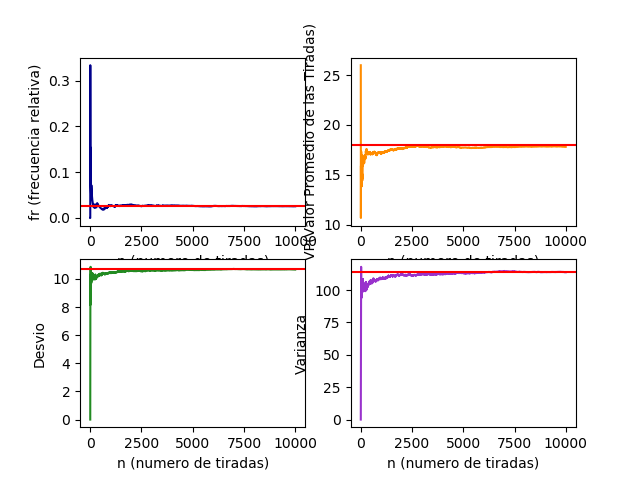
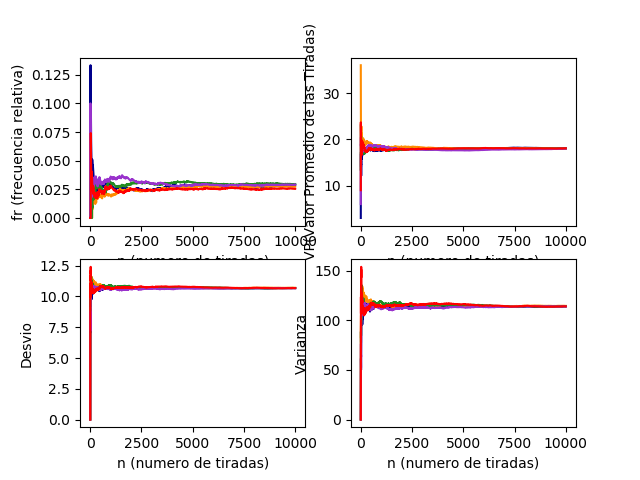
final recurrente

diff --git a/TP1_3.py b/TP1_3.py
@@ -13,6 +13,11 @@ class Ruleta(object):
         self.varianzas = []
         self.desvios = []
         self.nroTirada =[]
+        self.frecuenciaRelativaA = []
+        self.vpA = []
+        self.varianzasA = []
+        self.desviosA = []
+        self.nroTiradaA =[]
         self.ocurrencias = 0
         self.acumRelativas = 0
         self.acumResultados = 0
@@ -20,26 +25,25 @@ class Ruleta(object):
         self.acumVar = 0
         self.varEsp = 0
         self.desEsp = 0
+        self.colores = ['darkblue','darkorange','forestgreen','darkorchid','r']
 
-    def tirar(self, n, esperado):
+    def tirar(self, n, e):
         self.tiradas = n
-        self.esperado = esperado
-        for i in range(n+1):
-            if i == 0:
-                pass
-            else:
-                x = randint(0, 36)
-                self.resultados.append(x)
-                self.frt(i, x, esperado)
-                self.vpt(i,x)
-                self.varianza(i,x)
-        print('Resultados: ', self.resultados)
-        print(len(self.nroTirada), len(self.vp), len(self.frecuenciaRelativa))
-        print(pd.DataFrame(self.frecuenciaRelativa))
-        self.fa()
-        self.calculosFinales()
+        for esperado in e:
+            self.esperado = esperado
+            for i in range(n+1):
+                if i == 0:
+                    pass
+                else:
+                    x = randint(0, 36)
+                    self.resultados.append(x)
+                    self.frt(i, x, esperado)
+                    self.vpt(i,x)
+                    self.varianza(i,x)
+            self.fa()
+            self.calculosFinales()
+            self.reiniciar()
         self.imprimirGraficos()
-        print('Frecuencia Relativa esperada: ', self.acumRelativas)
 
     #Fecuencia por tirada
     def frt(self, i , x, esperado):
@@ -76,7 +80,6 @@ class Ruleta(object):
         a = pd.Series(self.resultados).value_counts()
         b = pd.DataFrame(a)
         b.columns = ['Cantidad']
-        print(b.loc[[self.esperado]])
 
     #calculos finales
     def calculosFinales(self):
@@ -95,36 +98,56 @@ class Ruleta(object):
         self.varEsp = aux2/37
         self.desEsp = sqrt(self.varEsp)
 
+    def reiniciar(self):
+
+        self.frecuenciaRelativaA.append(self.frecuenciaRelativa)
+        self.vpA.append(self.vp)
+        self.varianzasA.append(self.varianzas)
+        self.desviosA.append(self.desvios)
+        self.nroTiradaA.append(self.nroTirada)
+
+        self.resultados = []
+        self.frecuenciaRelativa = []
+        self.vp = []
+        self.varianzas = []
+        self.desvios = []
+        self.nroTirada =[]
+        self.ocurrencias = 0
+        self.acumRelativas = 0
+        self.acumResultados = 0
+        self.promedio = 0
+        self.acumVar = 0
+        self.varEsp = 0
+        self.desEsp = 0
 
     def imprimirGraficos(self):
 
         #Graficos
         plt.title('Graficos')
-
         plt.subplot(2, 2, 1)
-        plt.plot(self.nroTirada, self.frecuenciaRelativa, color='darkblue')
-        plt.axhline(y=self.acumRelativas, color='r', linestyle='-')
+        for p in range(len(self.nroTiradaA)):
+            plt.plot(self.nroTiradaA[p], self.frecuenciaRelativaA[p], color=self.colores[p])
         plt.xlabel('n (numero de tiradas)')
         plt.ylabel('fr (frecuencia relativa)')
 
         plt.subplot(2, 2, 2)
-        plt.plot(self.nroTirada, self.vp, color='darkorange')
-        plt.axhline(y=self.promedio, color='r', linestyle='-')
+        for p in range(len(self.nroTiradaA)):
+            plt.plot(self.nroTiradaA[p], self.vpA[p], color=self.colores[p])
         plt.xlabel('n (numero de tiradas)')
         plt.ylabel('VP(Valor Promedio de las Tiradas)')
 
-
         plt.subplot(2, 2, 3)
-        plt.plot(self.nroTirada, self.desvios, color='forestgreen')
-        plt.axhline(y=self.desEsp, color='r', linestyle='-')
+        for p in range(len(self.nroTiradaA)):
+            plt.plot(self.nroTiradaA[p], self.desviosA[p], color=self.colores[p])
         plt.xlabel('n (numero de tiradas)')
         plt.ylabel('Desvio')
 
         plt.subplot(2, 2, 4)
-        plt.plot(self.nroTirada, self.varianzas, color='darkorchid')
-        plt.axhline(y=self.varEsp, color='r', linestyle='-')
+        for p in range(len(self.nroTiradaA)):
+            plt.plot(self.nroTiradaA[p], self.varianzasA[p], color=self.colores[p])
         plt.xlabel('n (numero de tiradas)')
         plt.ylabel('Varianza')
+
 
         plt.savefig('full_figure.png')
         plt.show()
@@ -133,7 +156,7 @@ class Ruleta(object):
 
 def main():
     r = Ruleta()
-    r.tirar(10000, 5)
+    r.tirar(10000, [5, 20, 33, 15, 18])
 
 
  
